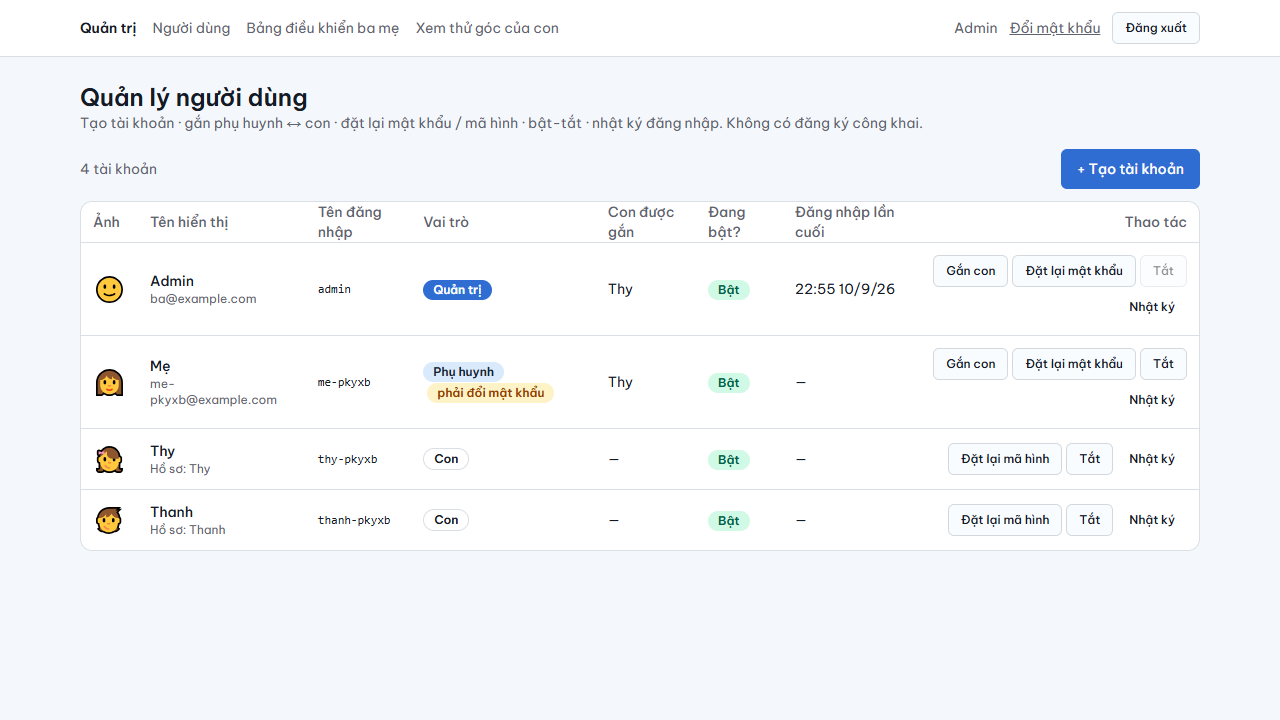
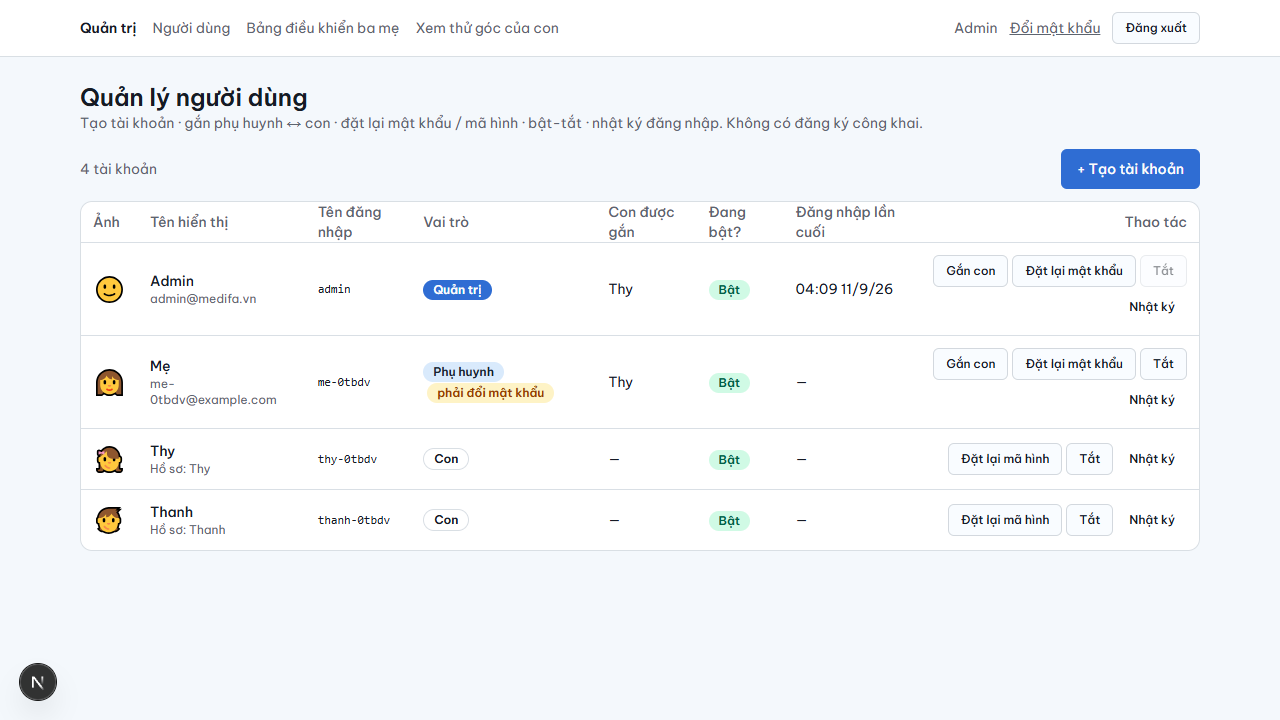
fix(parent): list only active children; test(e2e): deactivate test accounts after the run
Repeated e2e runs left deactivated Thy/Thanh accounts that still showed up on
/parent. The dashboard now filters on User.isActive and the acceptance suite
turns its own accounts off in afterAll. Screenshots retaken on a clean DB.

diff --git a/apps/web/app/(parent)/parent/page.tsx b/apps/web/app/(parent)/parent/page.tsx
@@ -6,11 +6,14 @@ import { avatarEmoji } from "@/lib/avatars";
 
 export const dynamic = "force-dynamic";
 
-/** P2 placeholder (phase 5). Lists only the children linked through StudentGuardian. */
+/** P2 placeholder (phase 5). Lists only active children linked through StudentGuardian. */
 export default async function ParentHomePage() {
   const user = await guardPage("parent");
   const students = await prisma.student.findMany({
-    where: user.role === "ADMIN" ? {} : { guardians: { some: { userId: user.id } } },
+    where: {
+      user: { isActive: true },
+      ...(user.role === "ADMIN" ? {} : { guardians: { some: { userId: user.id } } }),
+    },
     orderBy: { createdAt: "asc" },
     select: { id: true, nickname: true, avatarKey: true, className: true },
   });

diff --git a/apps/web/e2e/phase0-acceptance.spec.ts b/apps/web/e2e/phase0-acceptance.spec.ts
@@ -83,6 +83,18 @@ test.beforeAll(() => {
   mkdirSync(SHOTS, { recursive: true });
 });
 
+// Leave no active test accounts behind (there is no hard delete by design).
+test.afterAll(async ({ browser }) => {
+  if (!ADMIN_PASSWORD) return;
+  const page = await browser.newPage();
+  await adultLogin(page, ADMIN_USER, ADMIN_PASSWORD);
+  await expect(page).toHaveURL(/\/admin\/users/);
+  for (const id of [ids.parent, ids.thy, ids.thanh]) {
+    if (id) await page.request.patch(`/api/admin/users/${id}`, { data: { isActive: false } });
+  }
+  await page.close();
+});
+
 test("1. admin login: forced password change on a fresh install, then /admin/users — screenshot /login", async ({
   page,
 }) => {
